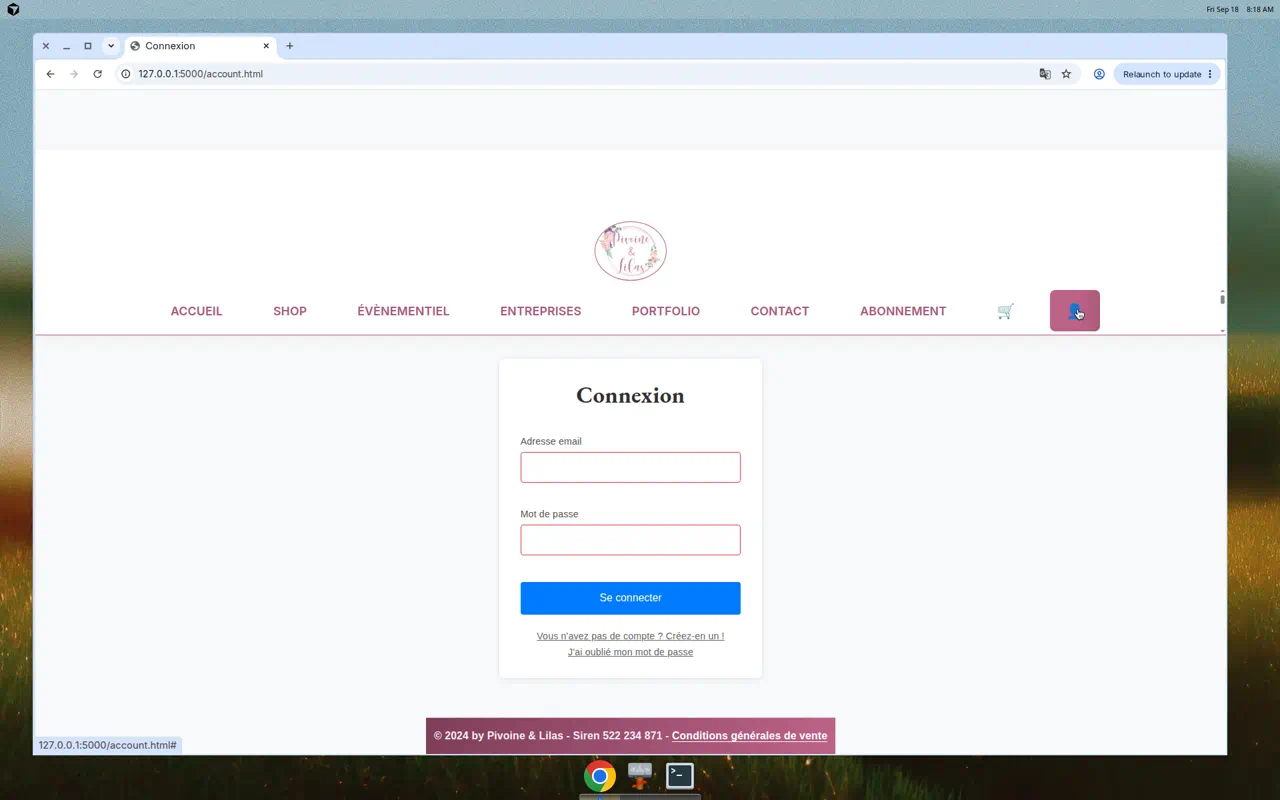
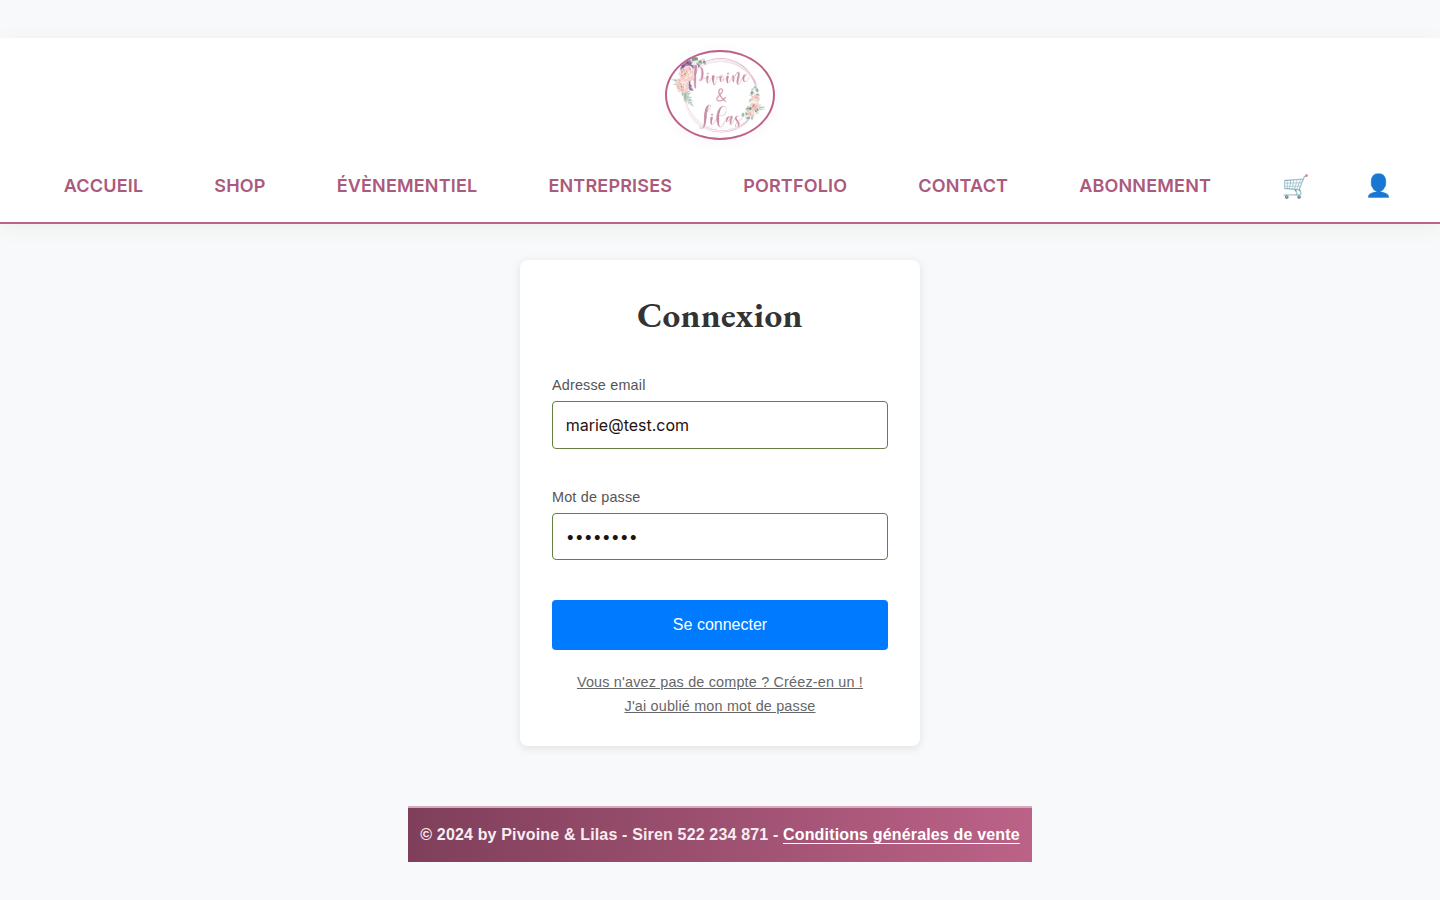
Refresh Demo Day screenshots for the current shop and admin.
Replace the old desktop captures with live pages: home, photo catalog,
Printemps + Mariage vitrine, cart, account, checkout, admin vitrine,
catalog, and order cards. Link them from the README.

diff --git a/README.md b/README.md
@@ -401,7 +401,7 @@ To show how the project is organised:
 - GitHub history and this README
 - [`docs/test-evidence/unittest-output.txt`](docs/test-evidence/unittest-output.txt)
 - Swagger at `/api/v1` and the Postman collection
-- Live pages on the local server: home, shop, account, checkout, admin (vitrine and orders)
+- Storefront captures in [`docs/screenshots/`](docs/screenshots/) (home, shop, vitrine, cart, account, checkout, admin)
 
 Issercio and Matthieu share this repository. Cadence for a demonstration: one local server, credentials written above, a fallback of tests plus this file if a deploy is down.
 
@@ -450,6 +450,29 @@ The spoken presentation, including this walkthrough, stays inside **20 minutes**
 ## Conclusion
 
 Pivoine & Lilas is a florist shop that takes a real order: a customer can sign in, buy a photographed bouquet, pay, subscribe, and the florist can manage the catalog, set the live vitrine, and read the payment on an order card. The server owns the price. What is not built (click-and-collect, homepage CMS, delivery zones, email) is listed here. The next work is operations, not another visual pass.
+
+Screenshots:
+
+| Page | Capture |
+| --- | --- |
+| Home | [accueil.png](docs/screenshots/accueil.png) |
+| Shop | [shop.jpg](docs/screenshots/shop.jpg) |
+| Shop vitrine (Printemps + Mariage) | [shop-vitrine.jpg](docs/screenshots/shop-vitrine.jpg) |
+| Cart | [panier.png](docs/screenshots/panier.png) |
+| Account | [account.png](docs/screenshots/account.png) |
+| Profile menu | [account-menu.png](docs/screenshots/account-menu.png) |
+| Checkout | [checkout.png](docs/screenshots/checkout.png) |
+| Admin vitrine | [admin-vitrine.png](docs/screenshots/admin-vitrine.png) |
+| Admin catalog | [admin-catalog.png](docs/screenshots/admin-catalog.png) |
+| Admin orders | [admin-orders.png](docs/screenshots/admin-orders.png) |
+
+![Home](docs/screenshots/accueil.png)
+![Shop](docs/screenshots/shop.jpg)
+![Shop vitrine](docs/screenshots/shop-vitrine.jpg)
+![Cart](docs/screenshots/panier.png)
+![Checkout](docs/screenshots/checkout.png)
+![Admin vitrine](docs/screenshots/admin-vitrine.png)
+![Admin orders](docs/screenshots/admin-orders.png)
 
 ---
 
